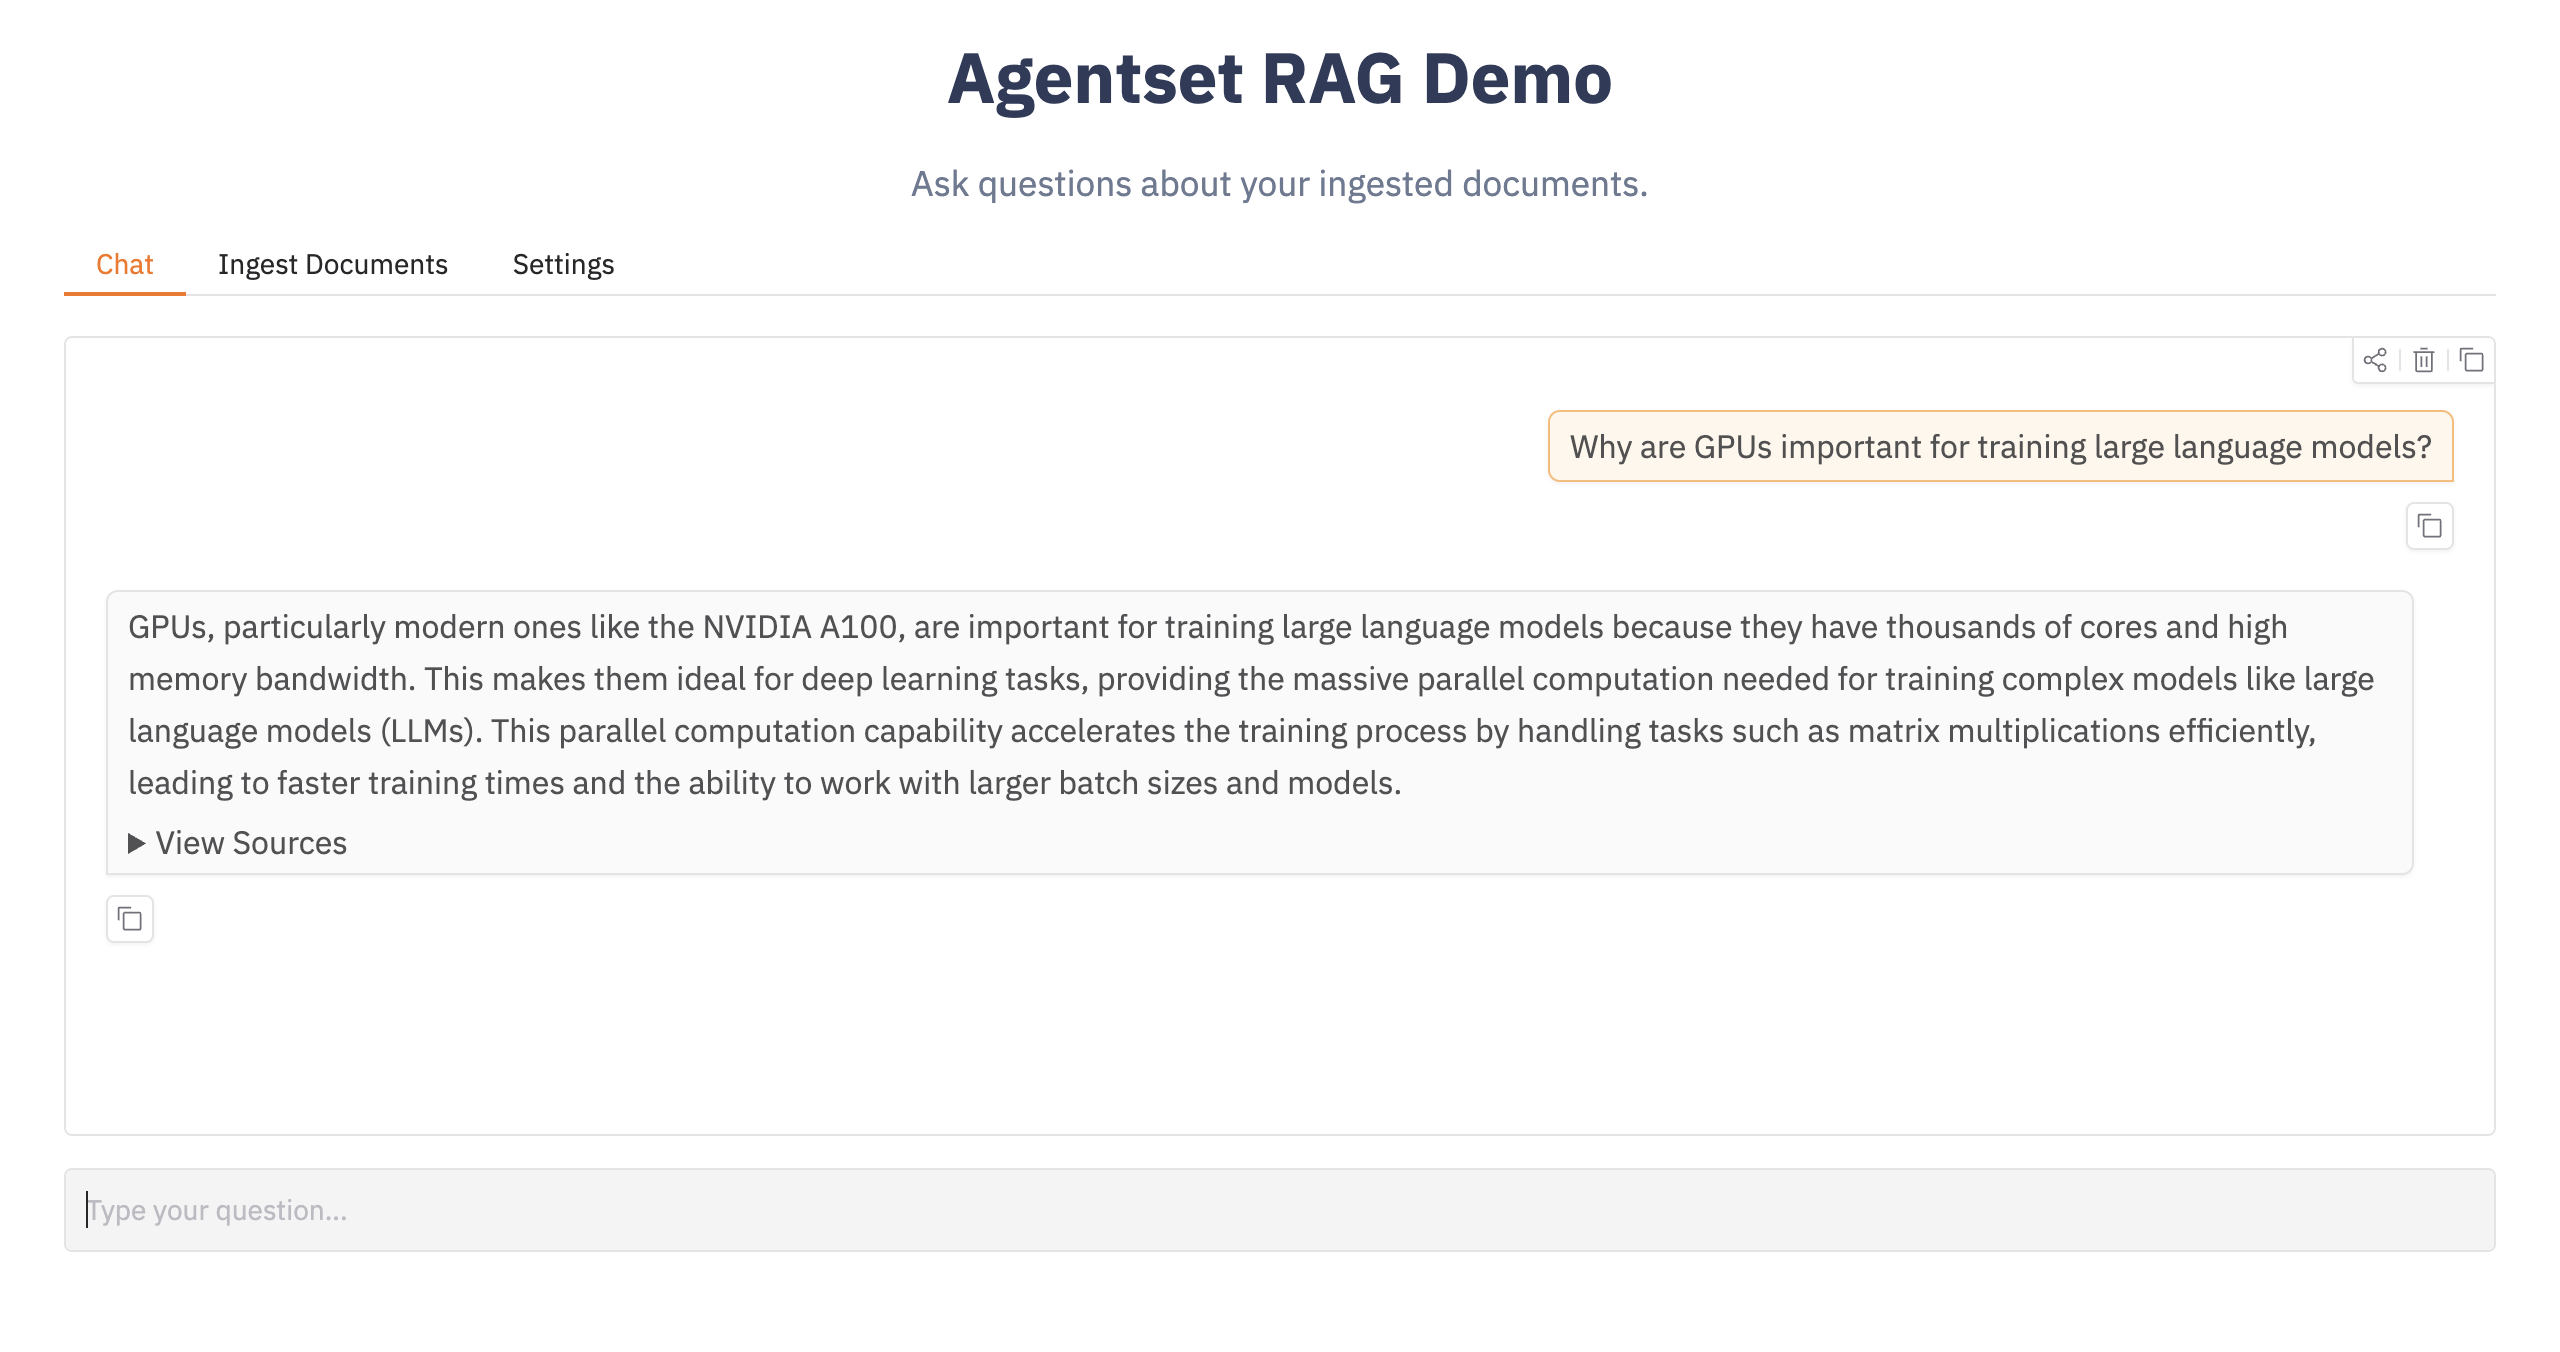
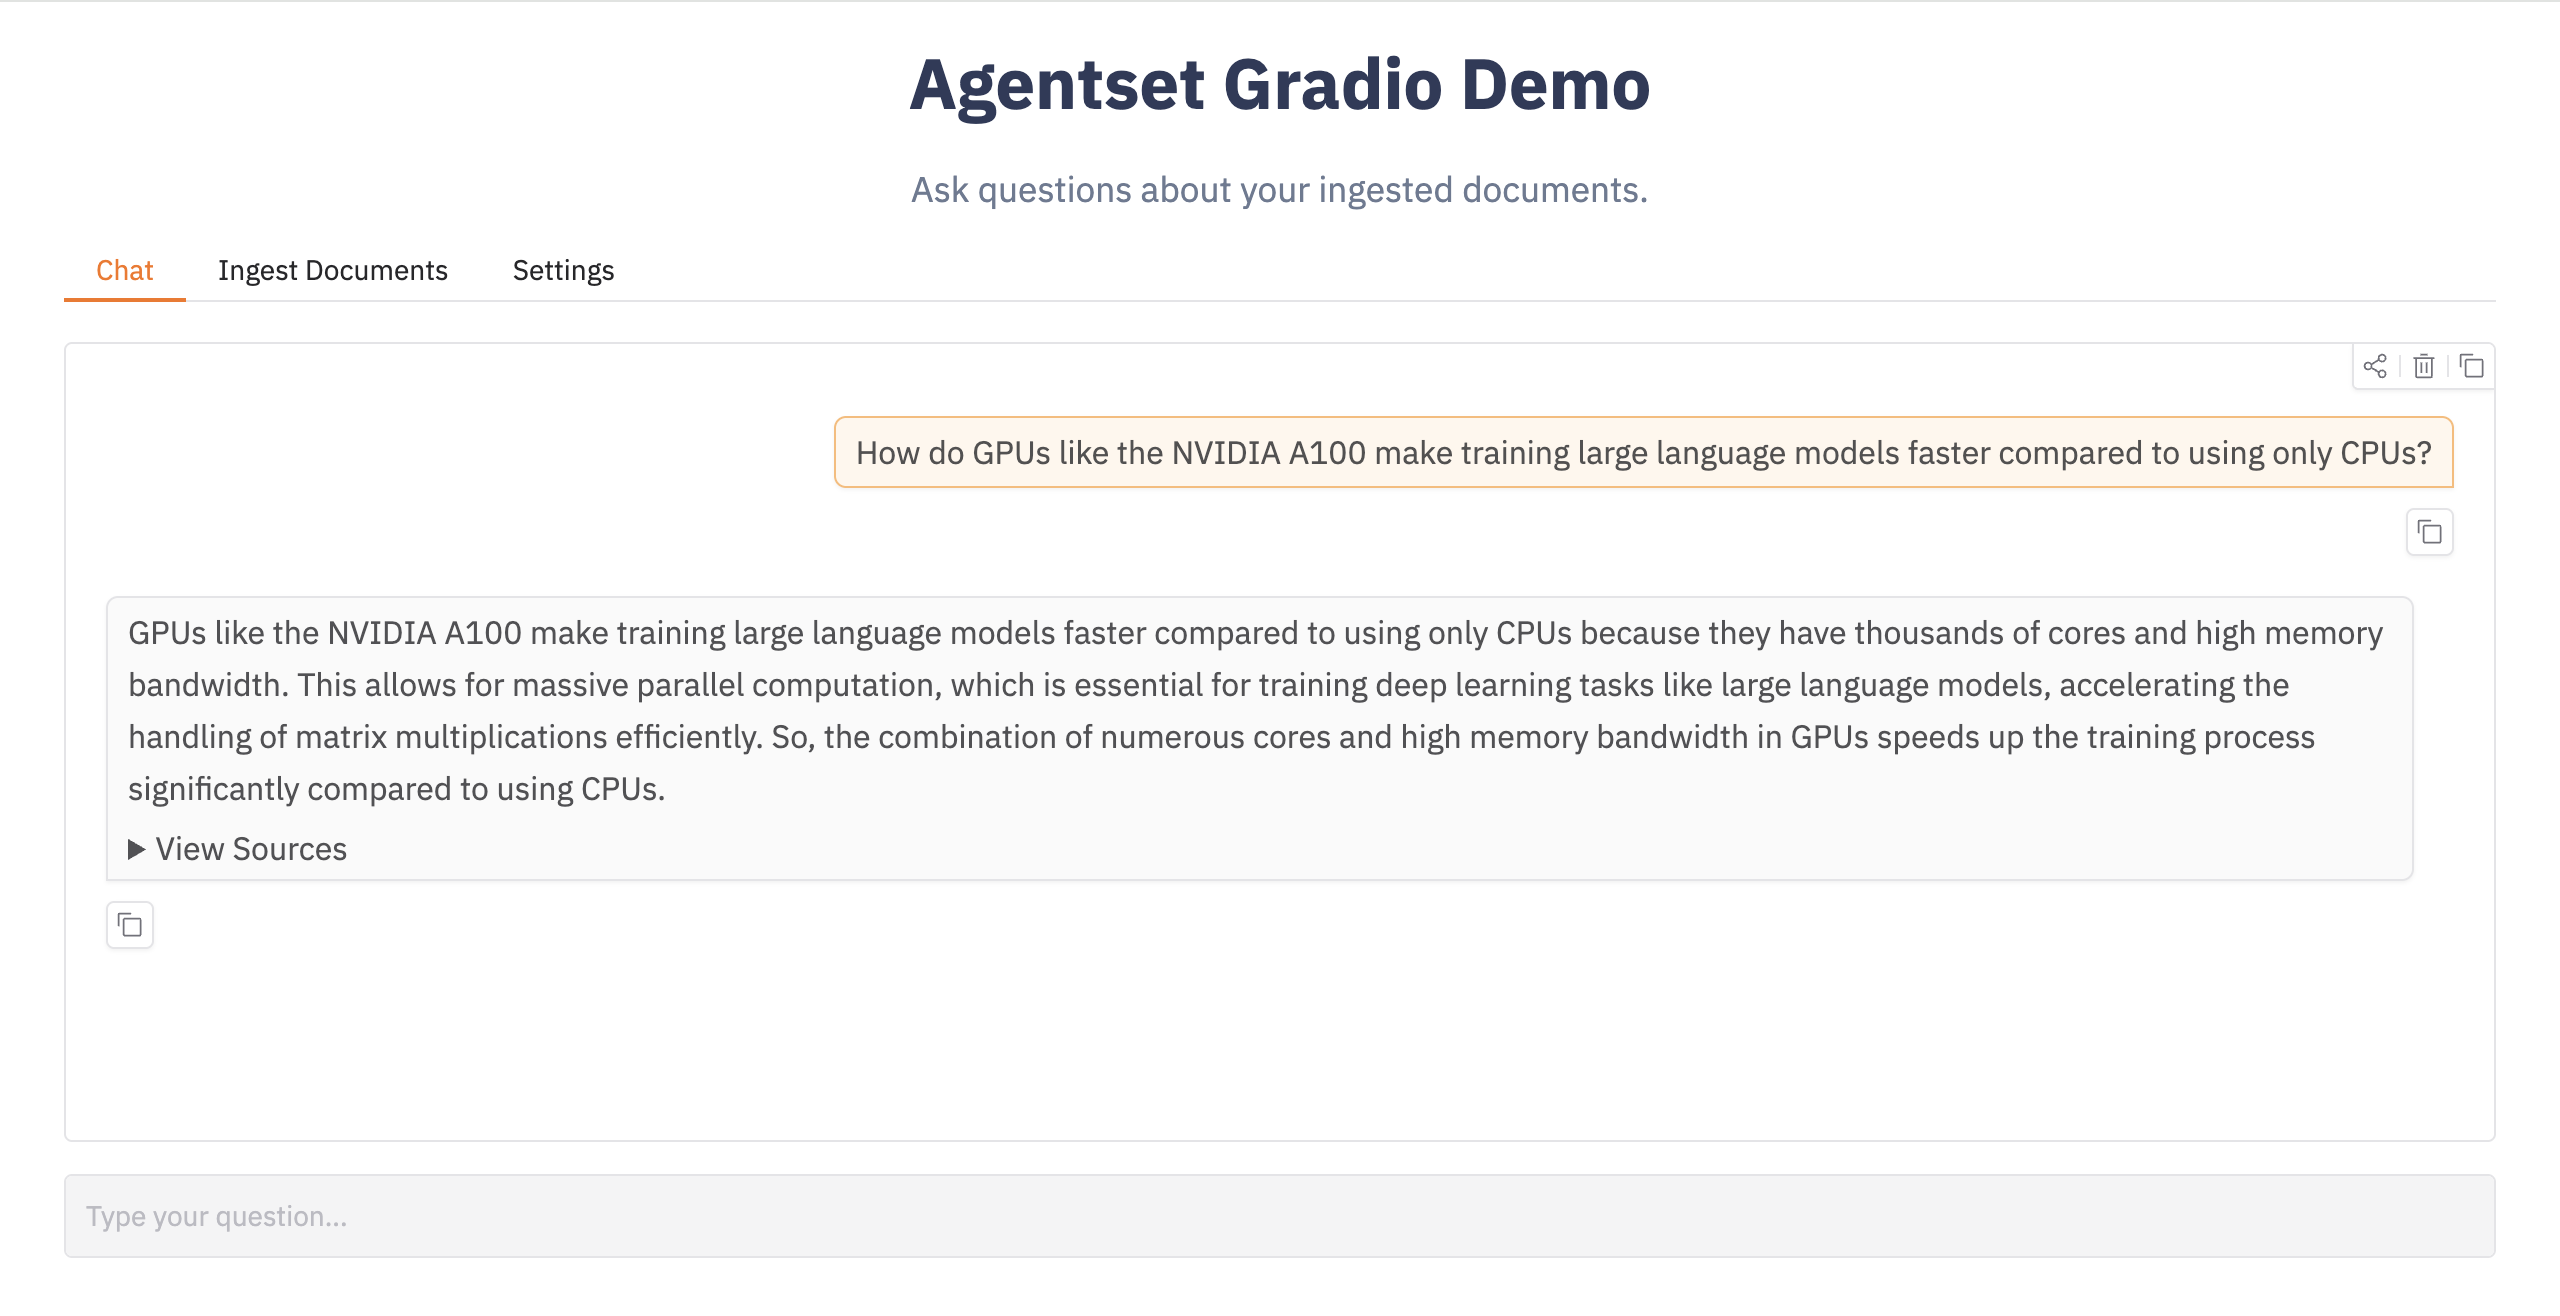
change title name

diff --git a/agentset_gradio_demo/app.py b/agentset_gradio_demo/app.py
@@ -149,8 +149,8 @@ def create_settings_interface():
 
 theme = gr.themes.Base(primary_hue="orange")
 
-with gr.Blocks(title="Agentset RAG Demo", theme=theme, css=css) as demo:
-    gr.Markdown("<div id='title'>Agentset RAG Demo</div>")
+with gr.Blocks(title="Agentset Gradio Demo", theme=theme, css=css) as demo:
+    gr.Markdown("<div id='title'>Agentset Gradio Demo</div>")
     gr.Markdown("<div id='desc'>Ask questions about your ingested documents.</div>")
     with gr.Tabs():
         with gr.Tab("Chat", id="chat"): create_chat_interface()

diff --git a/agentset_gradio_demo/config.py b/agentset_gradio_demo/config.py
@@ -26,6 +26,7 @@ MIN_SCORE = 0.6  # Minimum relevance score (0-1)
 # OpenAI Model Configuration
 OPENAI_MODEL = "gpt-4o-mini"  # Default model
 AVAILABLE_MODELS = [
+    "gpt-5.1",
     "gpt-4o",
     "gpt-4o-mini",
     "gpt-4-turbo",
@@ -33,7 +34,7 @@ AVAILABLE_MODELS = [
     "gpt-3.5-turbo",
     "o1",
     "o1-mini",
-    "o3-mini",
+    "o3-mini"
 ]
 
 # System Prompt for RAG responses
